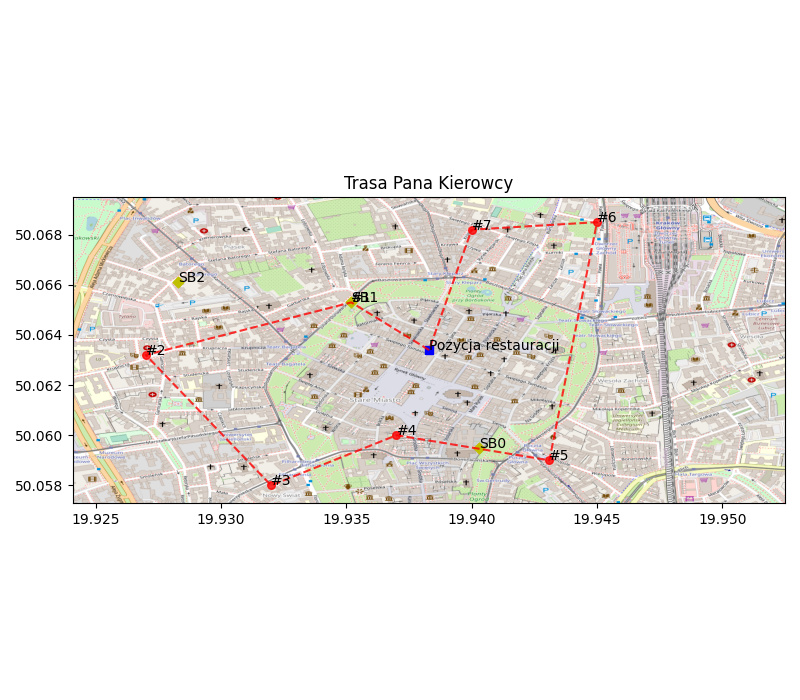
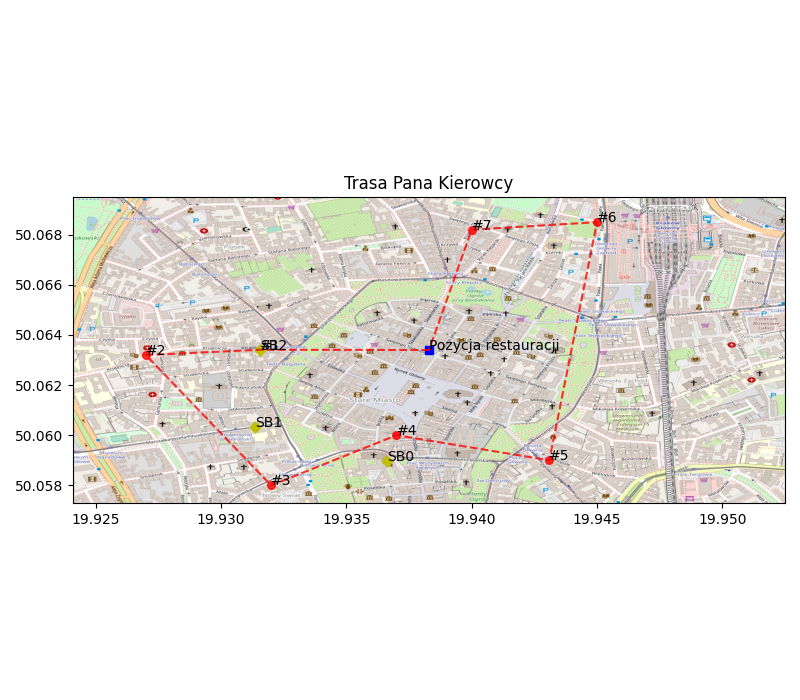
Update

diff --git a/elements/solver.py b/elements/solver.py
@@ -46,7 +46,7 @@ class Solver:
         for i in range(3):
             rand_x = random.sample(x_range, k=1)
             rand_y = random.sample(y_range, k=1)
-            petrol_loc.append([round(rand_x[0], 4), round(rand_y[0], 4)])
+            petrol_loc.append([round(rand_x[0], 14), round(rand_y[0], 14)])
 
         self.petrol_locations = petrol_loc
 
